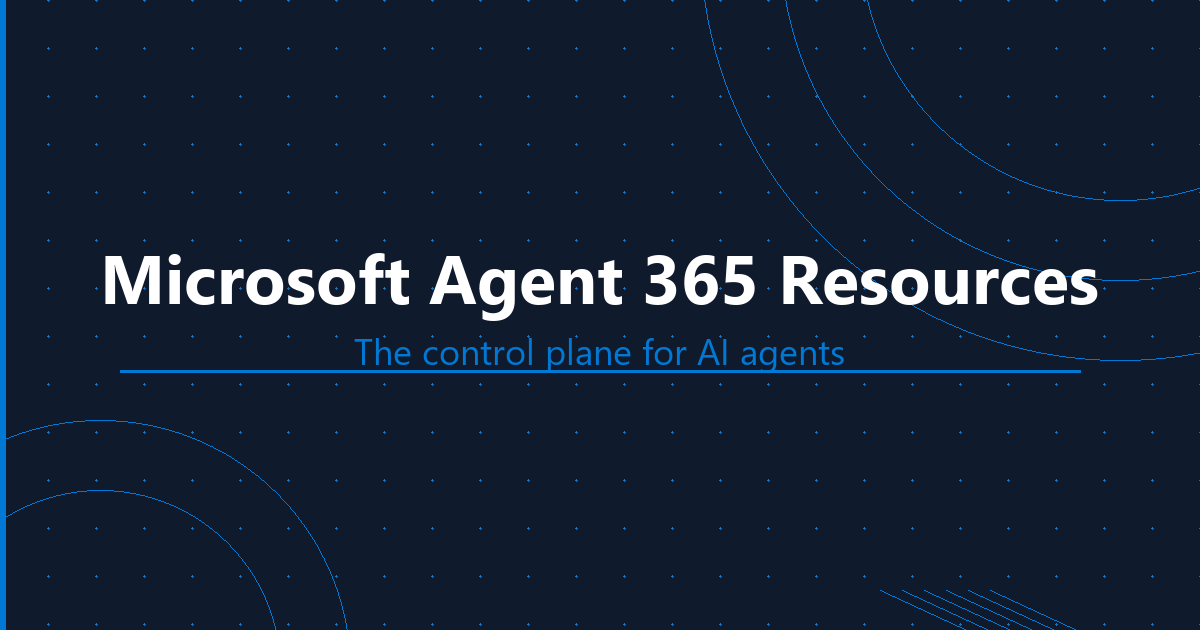
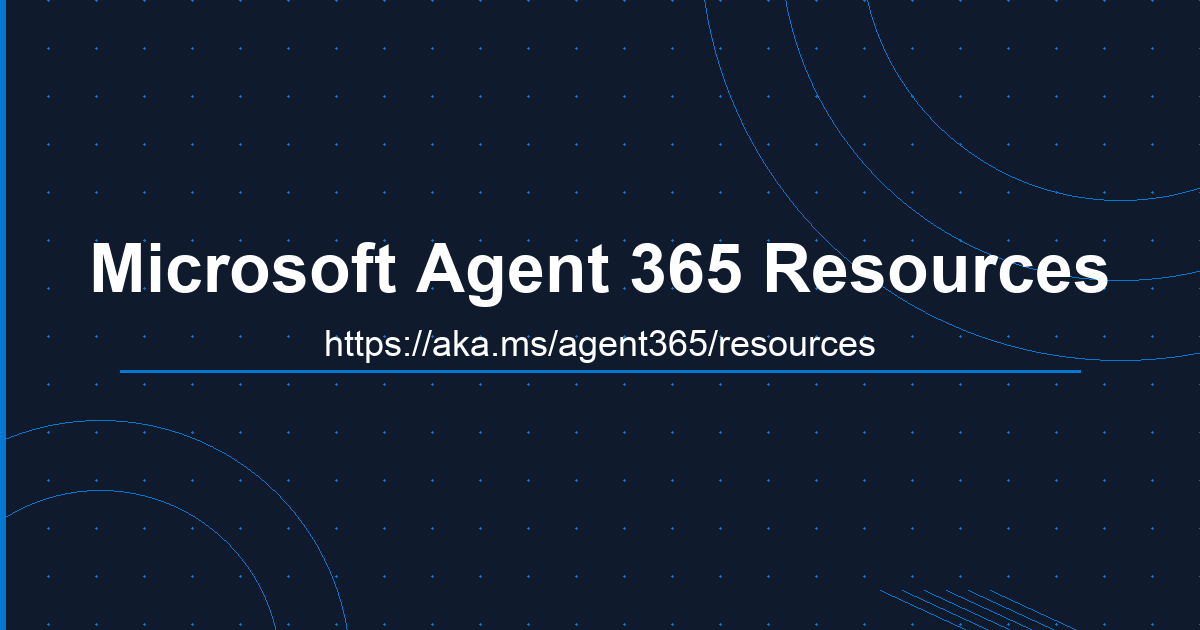
Updated og image

Changed region(s): [[0.0617, 0.3619, 0.925, 0.6032]]

diff --git a/index.html b/index.html
@@ -17,7 +17,7 @@
     <meta
 		name="image" 
       property="og:image"
-      content="https://microsoft.github.io/agent365-resources/images/og-image.png"
+      content="https://microsoft.github.io/agent365-resources/images/header.png?v=2"
     />
     <meta property="og:image:width" content="1200" />
     <meta property="og:image:height" content="630" />
@@ -32,7 +32,7 @@
     />
     <meta
       name="twitter:image"
-      content="https://microsoft.github.io/agent365-resources/images/og-image.png"
+      content="https://microsoft.github.io/agent365-resources/images/og-image.png?v=2"
     />
   </head>
   <body>

diff --git a/assets/css/styles.css b/assets/css/styles.css
@@ -65,7 +65,7 @@ a:hover { color: var(--brand-mid); }
 	letter-spacing: -.02em;
 	margin-bottom: .5rem;
 	position: relative;
-	color: #1e1b4b;
+	color: #ffffff;
 }
 .hero p {
 	font-size: 1rem;
@@ -73,10 +73,10 @@ a:hover { color: var(--brand-mid); }
 	max-width: 620px;
 	margin: 0 auto;
 	position: relative;
-	color: #1e1b4b;
+	color: #ffffff;
 }
-.hero a { color: #1e1b4b; font-weight: 700; text-decoration: underline; }
-.hero a:hover { color: #1a1a1a; }
+.hero a { color: #ffffff; font-weight: 700; text-decoration: underline; }
+.hero a:hover { color: #e2e8f0; }
 
 /* ── Search ── */
 .search-bar {

diff --git a/assets/generate_og_image.py b/assets/generate_og_image.py
@@ -3,7 +3,7 @@ import math
 
 WIDTH = 1200
 HEIGHT = 630
-OUTPUT_PATH = "C:/Users/rstand/Source/agent365-resources/assets/og-image.png"
+OUTPUT_PATH = "/Users/robert/source/agent365-resources/images/og-image.png"
 
 BG_COLOR = (15, 27, 45)          # #0f1b2d
 ACCENT_BLUE = (0, 120, 212)       # #0078d4
@@ -77,11 +77,17 @@ def load_font(size: int, bold: bool = False) -> ImageFont.FreeTypeFont:
         "C:/Windows/Fonts/segoeuib.ttf",
         "C:/Windows/Fonts/arialbd.ttf",
         "C:/Windows/Fonts/calibrib.ttf",
+        "/Library/Fonts/Arial Bold.ttf",
+        "/System/Library/Fonts/Supplemental/Arial Bold.ttf",
+        "/System/Library/Fonts/HelveticaNeue.ttc",
     ]
     candidates_regular = [
         "C:/Windows/Fonts/segoeui.ttf",
         "C:/Windows/Fonts/arial.ttf",
         "C:/Windows/Fonts/calibri.ttf",
+        "/Library/Fonts/Arial.ttf",
+        "/System/Library/Fonts/Supplemental/Arial.ttf",
+        "/System/Library/Fonts/Helvetica.ttc",
     ]
     paths = candidates_bold if bold else candidates_regular
     for path in paths:
@@ -96,7 +102,7 @@ font_title = load_font(68, bold=True)
 font_subtitle = load_font(36, bold=False)
 
 TITLE_TEXT = "Microsoft Agent 365 Resources"
-SUBTITLE_TEXT = "The control plane for AI agents"
+SUBTITLE_TEXT = "https://aka.ms/agent365/resources"
 
 # --- Draw title (centered, white) ---
 title_bbox = draw.textbbox((0, 0), TITLE_TEXT, font=font_title)
@@ -113,7 +119,7 @@ sub_w = sub_bbox[2] - sub_bbox[0]
 sub_x = (WIDTH - sub_w) // 2
 sub_y = title_y + title_h + 28
 
-draw.text((sub_x, sub_y), SUBTITLE_TEXT, font=font_subtitle, fill=ACCENT_BLUE)
+draw.text((sub_x, sub_y), SUBTITLE_TEXT, font=font_subtitle, fill=WHITE)
 
 # --- Convert RGBA -> RGB before saving as PNG (keeps transparency support) ---
 final = img.convert("RGB")
